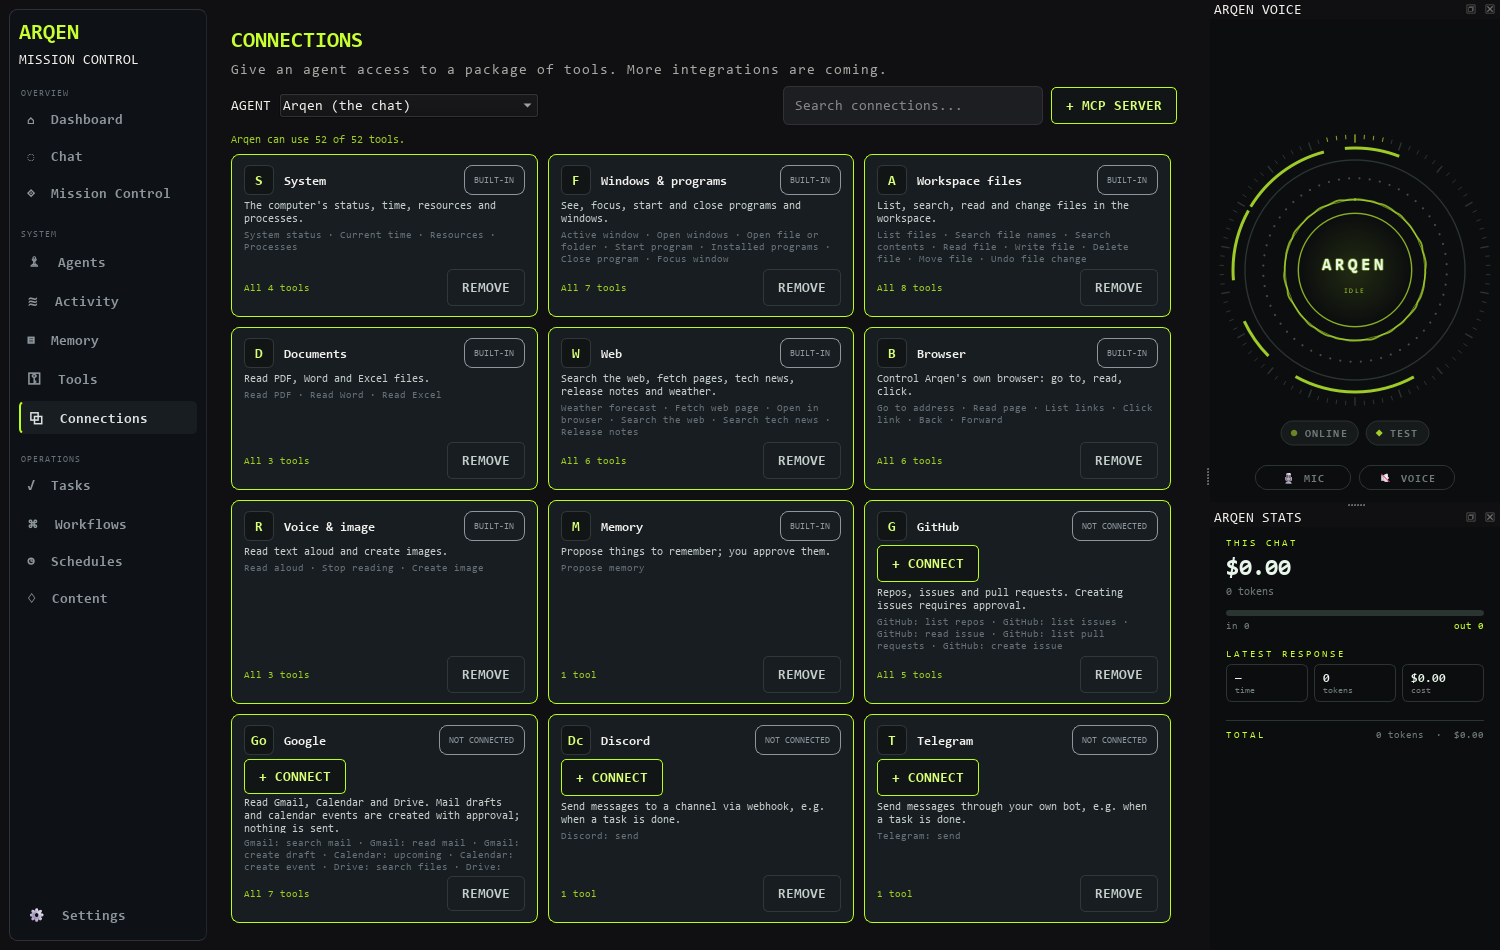
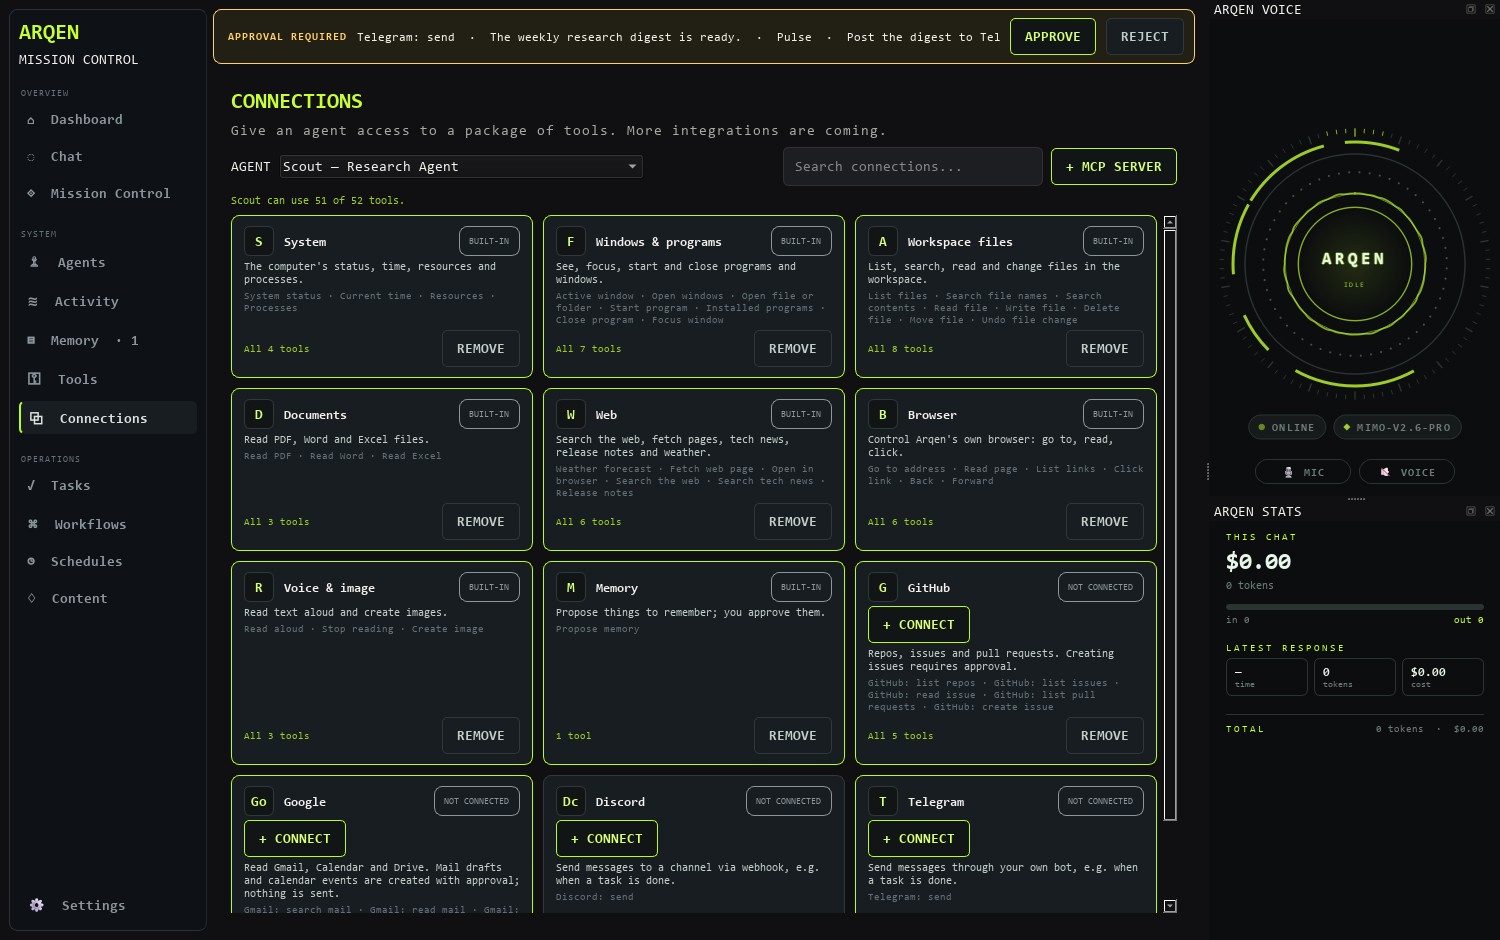
Show the real app in the README, and make the phone's approval cards readable
The screenshots are now the app itself, rendered with the real agents and
demo chats, tasks and memories so nothing private is published: a chat with
an approval waiting, the agents, the Tool Gateway, the connections and the
phone page.

On the phone, a tool's arguments were shown as JSON, so a file's content
arrived as one line full of \n escapes, just where the person has to judge
it. They are now listed one per line with their own line breaks. Replies and
results also render headings and bullets instead of raw Markdown.

diff --git a/arqen/api/mobile_page.py b/arqen/api/mobile_page.py
@@ -180,7 +180,16 @@ let badgeTimer = 0;
 
 const fmt = (text, values) => text.replace(/\{(\w+)\}/g, (m, k) => values[k] ?? m);
 const esc = s => String(s ?? '').replace(/[&<>"']/g, c => ({'&': '&amp;', '<': '&lt;', '>': '&gt;', '"': '&quot;', "'": '&#39;'}[c]));
-const rich = s => esc(s).replace(/`([^`\n]+)`/g, '<code>$1</code>').replace(/\*\*([^*\n]+)\*\*/g, '<b>$1</b>');
+// Enough Markdown for replies and results: headings, bullets, bold and code.
+const rich = s => esc(s)
+  .replace(/^#{1,6}\s+(.+)$/gm, '<b>$1</b>')
+  .replace(/^\s*[-*]\s+/gm, '• ')
+  .replace(/`([^`\n]+)`/g, '<code>$1</code>')
+  .replace(/\*\*([^*\n]+)\*\*/g, '<b>$1</b>');
+// A tool's arguments as the person reads them: one per line, text with its
+// own line breaks rather than JSON escapes, cut short when very long.
+const args = value => Object.entries(value || {}).map(([key, item]) =>
+  key + ': ' + (typeof item === 'string' ? item : JSON.stringify(item))).join('\n').slice(0, 4000);
 const untitled = t => !t || t === 'New chat' || t === 'Ny chatt';
 const when = iso => { try { return new Date(iso).toLocaleString([], {dateStyle: 'short', timeStyle: 'short'}); } catch { return ''; } };
 
@@ -292,7 +301,7 @@ function confirmation(pending) {
   const card = document.createElement('div');
   card.className = 'card';
   card.innerHTML = `<div class="what">${esc(fmt(T.wantsToRun, {tool: pending.tool}))}</div>
-    <pre>${esc(JSON.stringify(pending.arguments, null, 2)).slice(0, 4000)}</pre>
+    <pre>${esc(args(pending.arguments))}</pre>
     <div class="actions"><button class="ghost" data-approve="false">${esc(T.reject)}</button>
     <button class="primary" data-approve="true">${esc(T.approve)}</button></div>`;
   card.querySelectorAll('button').forEach(button => button.onclick = async () => {
@@ -345,7 +354,7 @@ async function showApprovals() {
     if (!pending.length) { view.innerHTML = `<div class="empty">${esc(T.nothingWaiting)}</div>`; return; }
     view.innerHTML = pending.map(a => `<div class="card" data-id="${esc(a.id)}">
       <div class="meta status pending">${esc(T.task)}: ${esc(titles[a.task_id] || a.task_id.slice(0, 8))}</div>
-      <div class="what">${esc(a.action)}</div><pre>${esc(JSON.stringify(a.payload, null, 2)).slice(0, 4000)}</pre>
+      <div class="what">${esc(a.action)}</div><pre>${esc(args(a.payload))}</pre>
       <div class="actions"><button class="ghost" data-status="rejected">${esc(T.reject)}</button>
       <button class="primary" data-status="approved">${esc(T.approve)}</button></div></div>`).join('');
     view.querySelectorAll('.card').forEach(card => card.querySelectorAll('button').forEach(button => button.onclick = async () => {

diff --git a/README.sv.md b/README.sv.md
@@ -7,6 +7,10 @@ Designen är mörk med limegröna accenter.
 
 *[English](README.md)*
 
+![Arqen: en chatt, med en agents Telegram-inlägg som väntar på godkännande överst](docs/images/chat.png)
+
+*Skärmbilderna visar demodata och det engelska gränssnittet.*
+
 Arqen är byggt för att vara lokalt, kontrollerbart och utbyggbart. Molnmodeller
 är valfria; lokal körning via Ollama eller LM Studio fungerar som grund. Allt som
 inte går att ångra kräver ditt godkännande.
@@ -27,6 +31,8 @@ inte går att ångra kräver ditt godkännande.
 
 **Kontrollrum**
 
+![Agenterna i Kontrollrummet](docs/images/agents.png)
+
 - Uppgifter, arbetsflöden med flera agenter, scheman och aktivitetslogg.
 - Agenter med egna verktygsregler. Varje uppgift körs i en egen, fristående
   Arqen, så en agents begränsningar aldrig påverkar chatten.
@@ -45,6 +51,8 @@ inte går att ångra kräver ditt godkännande.
 
 **Verktyg och säkerhet**
 
+![Tool Gatewayens katalog, med webbverktygen utfällda](docs/images/tools.png)
+
 - Verktyg för system, fönster och program, filer i arbetsytan, dokument (PDF,
   Word, Excel), webben, en egen webbläsare, väder, röst och bildgenerering.
 - Godkännande krävs för att skriva, ta bort, flytta eller ångra filer, skapa
@@ -54,6 +62,8 @@ inte går att ångra kräver ditt godkännande.
 - Minnen som ser ut som lösenord eller nycklar sparas aldrig.
 
 **Anslutningar**
+
+![Anslutningar: ge en agent tillgång till paket av verktyg](docs/images/connections.png)
 
 - Ge en agent tillgång till paket av verktyg med ett klick per kort.
 - **GitHub** (personlig token): repon, issues och pull requests; att skapa en
@@ -106,6 +116,8 @@ provider med `python -m arqen.doctor`.
 
 Chatta med Arqen, godkänn verktyg och Kontrollrummets godkännanden och följ
 dina uppgifter i telefonens webbläsare, medan Arqen körs på datorn.
+
+![Arqen i telefonen: ett verktyg som väntar på godkännande, Kontrollrummets godkännanden och en uppgifts resultat](docs/images/phone.png)
 
 1. Installera [Tailscale](https://tailscale.com) på datorn och telefonen och
    logga in med samma konto. Då når bara enheter i ditt eget tailnet Arqen;

diff --git a/README.md b/README.md
@@ -14,7 +14,9 @@ optional; a local model through Ollama or LM Studio works as the base.
 *[Svenska](README.sv.md)* · The interface speaks English or Swedish
 (Settings → Language).
 
-![Connections: give an agent access to packages of tools](docs/images/connections.png)
+![Arqen: a chat, with an agent's Telegram post waiting for approval at the top](docs/images/chat.png)
+
+*Screenshots show demo data.*
 
 ## Features
 
@@ -30,6 +32,8 @@ optional; a local model through Ollama or LM Studio works as the base.
   total. The cost is the provider's own figure, not an estimate.
 
 **Mission Control**
+
+![Agents in Mission Control](docs/images/agents.png)
 
 - Tasks, multi-agent workflows, schedules (daily, weekly, monthly or once) and
   an activity log.
@@ -60,9 +64,11 @@ optional; a local model through Ollama or LM Studio works as the base.
 - API keys are read only when a tool runs and are scrubbed from everything a
   tool returns. Memories that look like passwords or keys are never stored.
 
-![The Tool Gateway catalogue](docs/images/tools.png)
+![The Tool Gateway catalogue, with the web tools open](docs/images/tools.png)
 
 **Connections**
+
+![Connections: give an agent access to packages of tools](docs/images/connections.png)
 
 - **GitHub** (personal token): repos, issues and pull requests; creating an
   issue needs approval.
@@ -130,6 +136,8 @@ provider with `python -m arqen.doctor`.
 
 Chat with Arqen, approve its tools and Mission Control's approvals, and follow
 your tasks from your phone's browser, while Arqen runs on your computer.
+
+![Arqen on a phone: a tool waiting for approval, Mission Control's approvals and a task's result](docs/images/phone.png)
 
 1. Install [Tailscale](https://tailscale.com) on the computer and the phone
    and sign in to the same account. Only devices in your own tailnet can then
